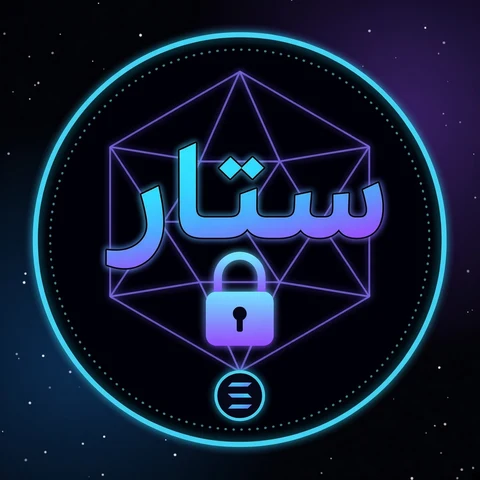
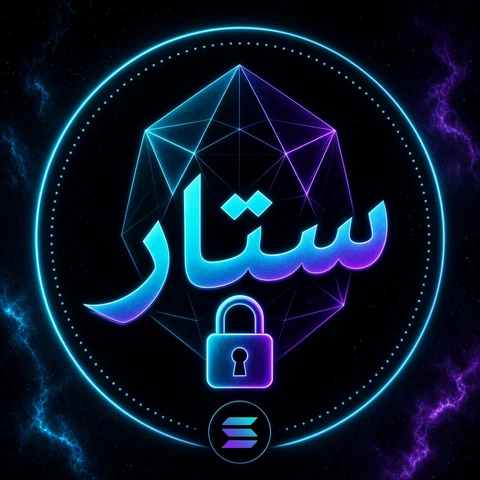
v3 RA/SATAR emblems (?v=3)

diff --git a/ar/index.html b/ar/index.html
@@ -623,8 +623,8 @@ html[lang="zh-Hans"] .team__title { font-family: inherit; font-style: normal; fo
         <li><a class="tile tile--picture" href="https://stale.elghaly.dev/" rel="noopener noreferrer" aria-label="Stale"><img class="tile__photo" src="/assets/emblem-stale-480.webp" width="480" height="480" alt="Stale" loading="lazy" decoding="async"></a></li>
         <li><a class="tile tile--picture" href="https://glance.elghaly.dev/" rel="noopener noreferrer" aria-label="Glance"><img class="tile__photo" src="/assets/emblem-glance-480.webp" width="480" height="480" alt="Glance" loading="lazy" decoding="async"></a></li>
         <li><a class="tile tile--picture" href="https://stocklana.elghaly.dev/" rel="noopener noreferrer" aria-label="Stocklana"><img class="tile__photo" src="/assets/emblem-stocklana-480.webp" width="480" height="480" alt="Stocklana" loading="lazy" decoding="async"></a></li>
-        <li><div class="tile tile--picture tile--locked" role="img" aria-label="RA, locked" aria-disabled="true"><img class="tile__photo" src="/assets/emblem-ra-480.webp?v=2" width="480" height="480" alt="رع" loading="lazy" decoding="async"></div></li>
-        <li><div class="tile tile--picture tile--locked" role="img" aria-label="SATAR, locked" aria-disabled="true"><img class="tile__photo" src="/assets/emblem-satar-480.webp?v=2" width="480" height="480" alt="ستار" loading="lazy" decoding="async"></div></li>
+        <li><div class="tile tile--picture tile--locked" role="img" aria-label="RA, locked" aria-disabled="true"><img class="tile__photo" src="/assets/emblem-ra-480.webp?v=3" width="480" height="480" alt="رع" loading="lazy" decoding="async"></div></li>
+        <li><div class="tile tile--picture tile--locked" role="img" aria-label="SATAR, locked" aria-disabled="true"><img class="tile__photo" src="/assets/emblem-satar-480.webp?v=3" width="480" height="480" alt="ستار" loading="lazy" decoding="async"></div></li>
         <li><div class="tile tile--picture tile--locked" role="img" aria-label="Anubis, locked" aria-disabled="true"><img class="tile__photo" src="/assets/anubis-2-480.webp" width="480" height="480" alt="Anubis" loading="lazy" decoding="async"></div></li>
       </ol>
       <div class="ask page-menu" data-page-menu data-label="اسأل الذكاء الاصطناعي من نحن" data-prompt="اقرأ https://elghaly.dev/ar/ وأخبرني من هم elghaly."></div>

diff --git a/ru/index.html b/ru/index.html
@@ -613,8 +613,8 @@ html[lang="zh-Hans"] .team__title { font-family: inherit; font-style: normal; fo
         <li><a class="tile tile--picture" href="https://stale.elghaly.dev/" rel="noopener noreferrer" aria-label="Stale"><img class="tile__photo" src="/assets/emblem-stale-480.webp" width="480" height="480" alt="Stale" loading="lazy" decoding="async"></a></li>
         <li><a class="tile tile--picture" href="https://glance.elghaly.dev/" rel="noopener noreferrer" aria-label="Glance"><img class="tile__photo" src="/assets/emblem-glance-480.webp" width="480" height="480" alt="Glance" loading="lazy" decoding="async"></a></li>
         <li><a class="tile tile--picture" href="https://stocklana.elghaly.dev/" rel="noopener noreferrer" aria-label="Stocklana"><img class="tile__photo" src="/assets/emblem-stocklana-480.webp" width="480" height="480" alt="Stocklana" loading="lazy" decoding="async"></a></li>
-        <li><div class="tile tile--picture tile--locked" role="img" aria-label="RA, locked" aria-disabled="true"><img class="tile__photo" src="/assets/emblem-ra-480.webp?v=2" width="480" height="480" alt="RA" loading="lazy" decoding="async"></div></li>
-        <li><div class="tile tile--picture tile--locked" role="img" aria-label="SATAR, locked" aria-disabled="true"><img class="tile__photo" src="/assets/emblem-satar-480.webp?v=2" width="480" height="480" alt="SATAR" loading="lazy" decoding="async"></div></li>
+        <li><div class="tile tile--picture tile--locked" role="img" aria-label="RA, locked" aria-disabled="true"><img class="tile__photo" src="/assets/emblem-ra-480.webp?v=3" width="480" height="480" alt="RA" loading="lazy" decoding="async"></div></li>
+        <li><div class="tile tile--picture tile--locked" role="img" aria-label="SATAR, locked" aria-disabled="true"><img class="tile__photo" src="/assets/emblem-satar-480.webp?v=3" width="480" height="480" alt="SATAR" loading="lazy" decoding="async"></div></li>
         <li><div class="tile tile--picture tile--locked" role="img" aria-label="Anubis, locked" aria-disabled="true"><img class="tile__photo" src="/assets/anubis-2-480.webp" width="480" height="480" alt="Anubis" loading="lazy" decoding="async"></div></li>
       </ol>
       <div class="ask page-menu" data-page-menu data-label="Спросите ИИ, кто мы" data-prompt="Прочитай https://elghaly.dev/ru/ и расскажи, кто такие elghaly."></div>

diff --git a/zh/index.html b/zh/index.html
@@ -613,8 +613,8 @@ html[lang="zh-Hans"] .team__title { font-family: inherit; font-style: normal; fo
         <li><a class="tile tile--picture" href="https://stale.elghaly.dev/" rel="noopener noreferrer" aria-label="Stale"><img class="tile__photo" src="/assets/emblem-stale-480.webp" width="480" height="480" alt="Stale" loading="lazy" decoding="async"></a></li>
         <li><a class="tile tile--picture" href="https://glance.elghaly.dev/" rel="noopener noreferrer" aria-label="Glance"><img class="tile__photo" src="/assets/emblem-glance-480.webp" width="480" height="480" alt="Glance" loading="lazy" decoding="async"></a></li>
         <li><a class="tile tile--picture" href="https://stocklana.elghaly.dev/" rel="noopener noreferrer" aria-label="Stocklana"><img class="tile__photo" src="/assets/emblem-stocklana-480.webp" width="480" height="480" alt="Stocklana" loading="lazy" decoding="async"></a></li>
-        <li><div class="tile tile--picture tile--locked" role="img" aria-label="RA, locked" aria-disabled="true"><img class="tile__photo" src="/assets/emblem-ra-480.webp?v=2" width="480" height="480" alt="RA" loading="lazy" decoding="async"></div></li>
-        <li><div class="tile tile--picture tile--locked" role="img" aria-label="SATAR, locked" aria-disabled="true"><img class="tile__photo" src="/assets/emblem-satar-480.webp?v=2" width="480" height="480" alt="SATAR" loading="lazy" decoding="async"></div></li>
+        <li><div class="tile tile--picture tile--locked" role="img" aria-label="RA, locked" aria-disabled="true"><img class="tile__photo" src="/assets/emblem-ra-480.webp?v=3" width="480" height="480" alt="RA" loading="lazy" decoding="async"></div></li>
+        <li><div class="tile tile--picture tile--locked" role="img" aria-label="SATAR, locked" aria-disabled="true"><img class="tile__photo" src="/assets/emblem-satar-480.webp?v=3" width="480" height="480" alt="SATAR" loading="lazy" decoding="async"></div></li>
         <li><div class="tile tile--picture tile--locked" role="img" aria-label="Anubis, locked" aria-disabled="true"><img class="tile__photo" src="/assets/anubis-2-480.webp" width="480" height="480" alt="Anubis" loading="lazy" decoding="async"></div></li>
       </ol>
       <div class="ask page-menu" data-page-menu data-label="试着问问 AI：我们是谁" data-prompt="请阅读 https://elghaly.dev/zh/ 并告诉我 elghaly 是谁。"></div>

diff --git a/index.html b/index.html
@@ -613,8 +613,8 @@ html[lang="zh-Hans"] .team__title { font-family: inherit; font-style: normal; fo
         <li><a class="tile tile--picture" href="https://stale.elghaly.dev/" rel="noopener noreferrer" aria-label="Stale"><img class="tile__photo" src="/assets/emblem-stale-480.webp" width="480" height="480" alt="Stale" loading="lazy" decoding="async"></a></li>
         <li><a class="tile tile--picture" href="https://glance.elghaly.dev/" rel="noopener noreferrer" aria-label="Glance"><img class="tile__photo" src="/assets/emblem-glance-480.webp" width="480" height="480" alt="Glance" loading="lazy" decoding="async"></a></li>
         <li><a class="tile tile--picture" href="https://stocklana.elghaly.dev/" rel="noopener noreferrer" aria-label="Stocklana"><img class="tile__photo" src="/assets/emblem-stocklana-480.webp" width="480" height="480" alt="Stocklana" loading="lazy" decoding="async"></a></li>
-        <li><div class="tile tile--picture tile--locked" role="img" aria-label="RA, locked" aria-disabled="true"><img class="tile__photo" src="/assets/emblem-ra-480.webp?v=2" width="480" height="480" alt="RA" loading="lazy" decoding="async"></div></li>
-        <li><div class="tile tile--picture tile--locked" role="img" aria-label="SATAR, locked" aria-disabled="true"><img class="tile__photo" src="/assets/emblem-satar-480.webp?v=2" width="480" height="480" alt="SATAR" loading="lazy" decoding="async"></div></li>
+        <li><div class="tile tile--picture tile--locked" role="img" aria-label="RA, locked" aria-disabled="true"><img class="tile__photo" src="/assets/emblem-ra-480.webp?v=3" width="480" height="480" alt="RA" loading="lazy" decoding="async"></div></li>
+        <li><div class="tile tile--picture tile--locked" role="img" aria-label="SATAR, locked" aria-disabled="true"><img class="tile__photo" src="/assets/emblem-satar-480.webp?v=3" width="480" height="480" alt="SATAR" loading="lazy" decoding="async"></div></li>
         <li><div class="tile tile--picture tile--locked" role="img" aria-label="Anubis, locked" aria-disabled="true"><img class="tile__photo" src="/assets/anubis-2-480.webp" width="480" height="480" alt="Anubis" loading="lazy" decoding="async"></div></li>
       </ol>
       <div class="ask page-menu" data-page-menu data-label="Try asking AI to reveal who we are" data-prompt="Read https://elghaly.dev/ and tell me who elghaly are."></div>
